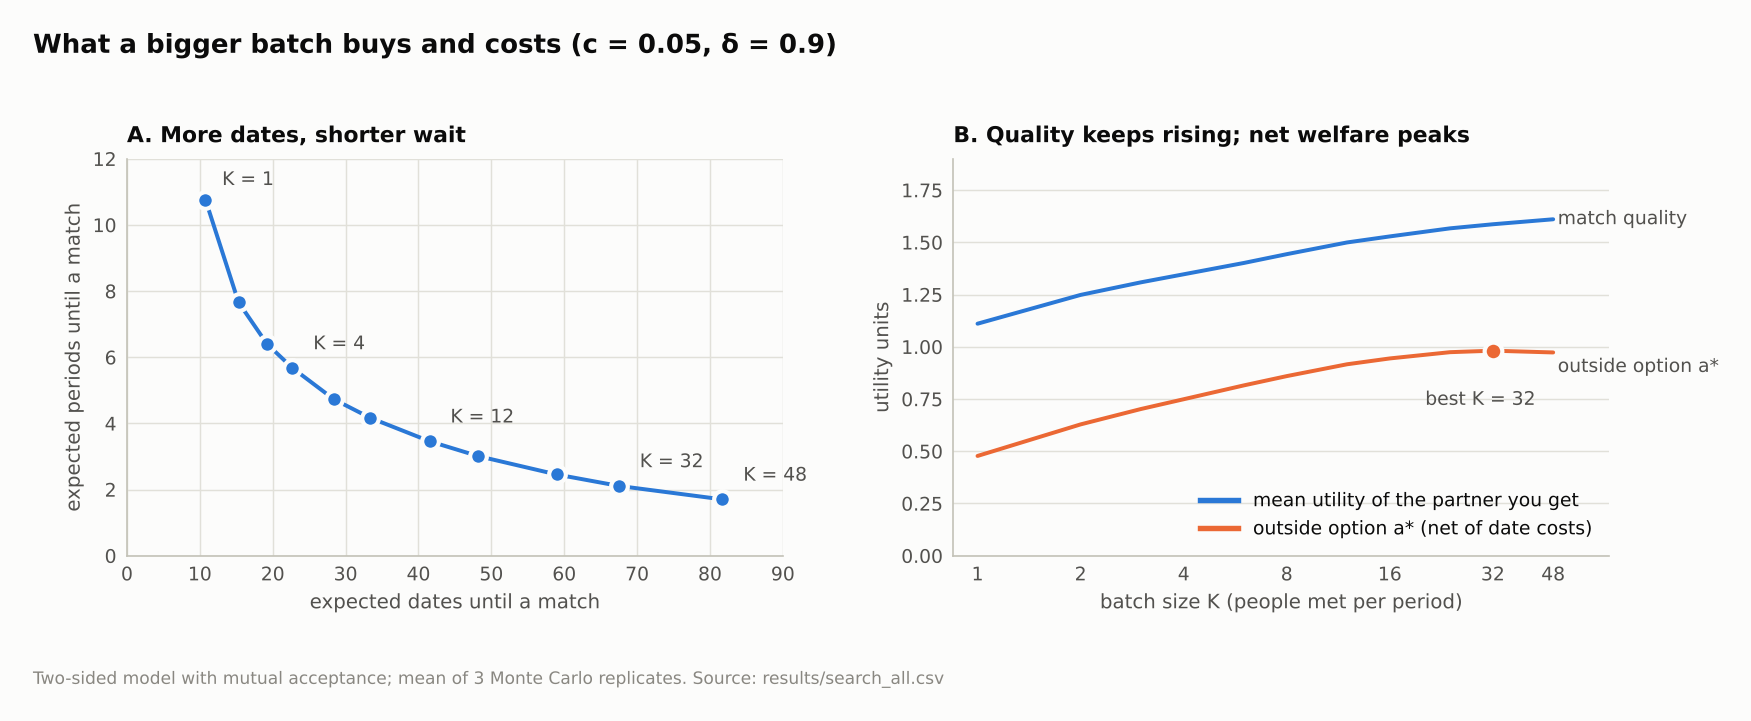
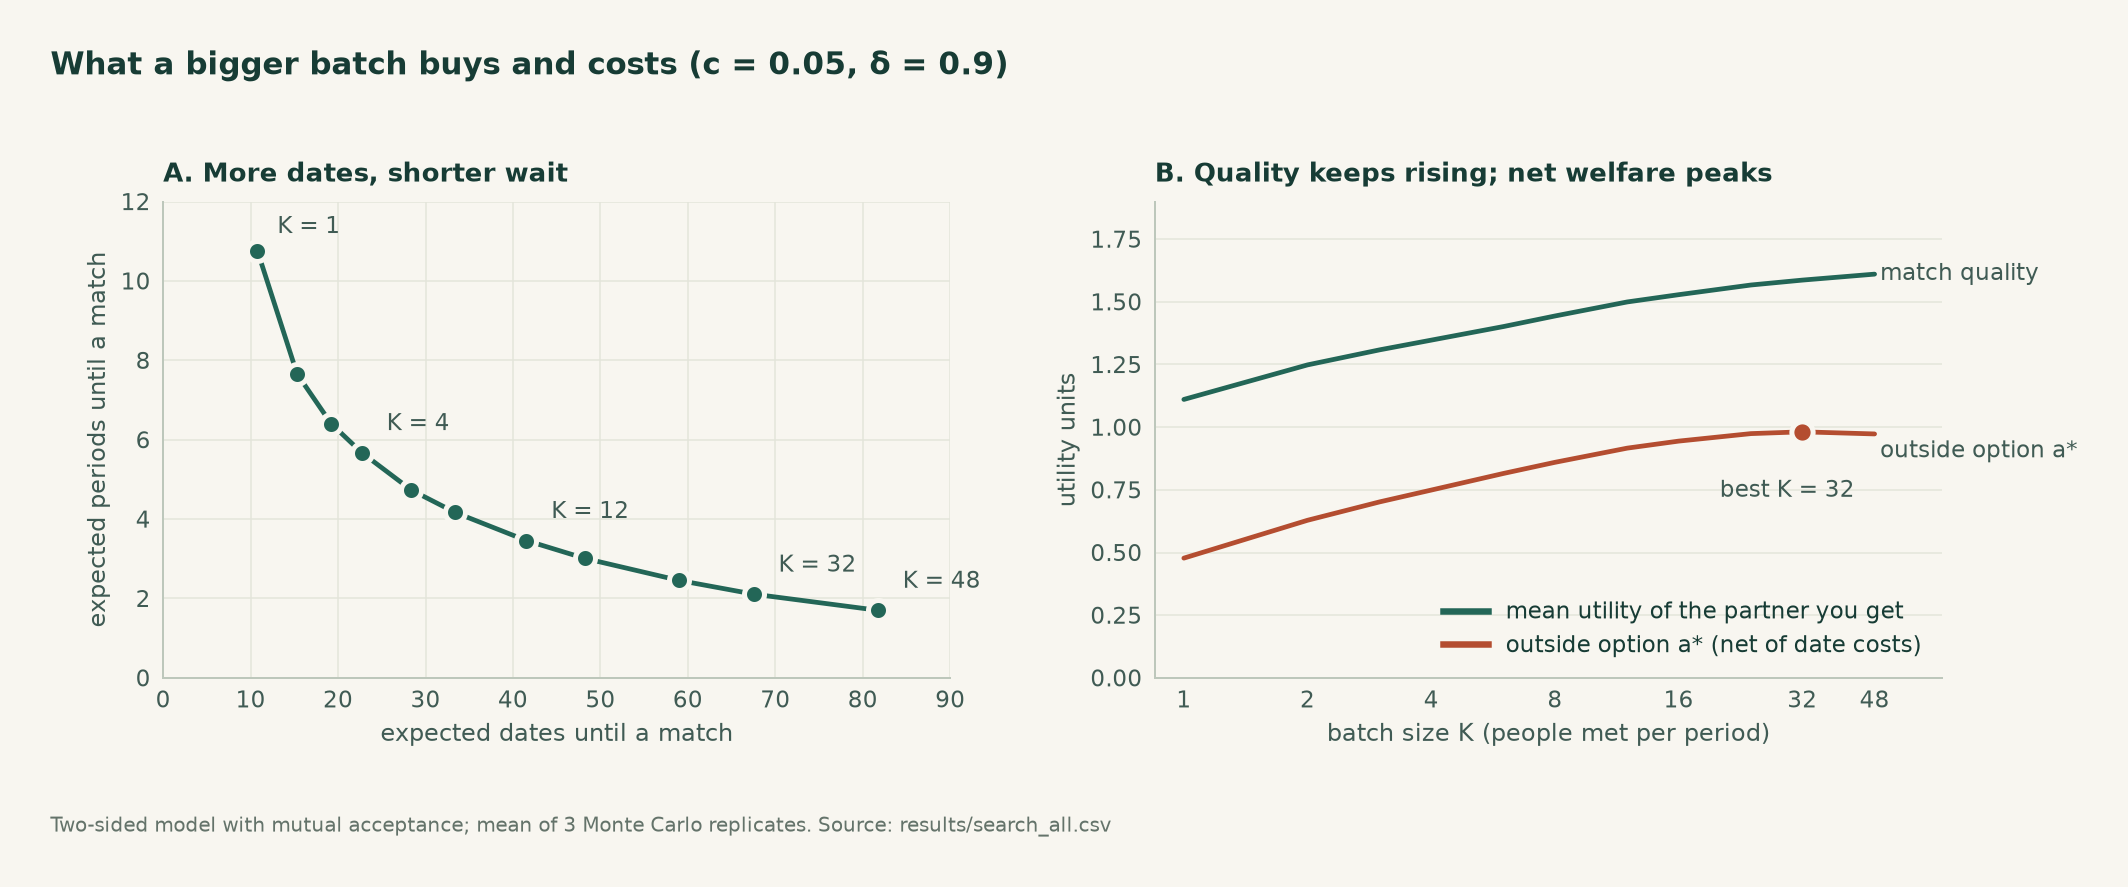
Give the research notebook a cohesive visual identity

diff --git a/experiments/make_identity.py b/experiments/make_identity.py
@@ -1,0 +1,105 @@
+"""Build README cover and performance figure from checked-in evidence.
+
+Run: python experiments/make_identity.py. No simulations are run.
+"""
+import json
+from pathlib import Path
+
+import matplotlib
+matplotlib.use("Agg")
+import matplotlib.pyplot as plt
+from matplotlib.patches import Circle, FancyBboxPatch, PathPatch
+from matplotlib.path import Path as Curve
+
+ROOT = Path(__file__).resolve().parents[1]
+OUT = ROOT / "docs" / "figures"
+PAPER, FOREST, GREEN, ORANGE = "#f8f6f0", "#173c35", "#b9d5aa", "#eaa884"
+plt.rcParams.update({"font.family": "DejaVu Sans", "svg.fonttype": "none"})
+
+
+def text(ax, x, y, s, size=12, color=PAPER, **kw):
+    return ax.text(x, y, s, fontsize=size, color=color, va="top", **kw)
+
+
+def cover():
+    d = json.loads((ROOT / "results/manipulation_n3.json").read_text())
+    fig = plt.figure(figsize=(14, 7.4), facecolor=PAPER)
+    ax = fig.add_axes([0, 0, 1, 1], xlim=(0, 140), ylim=(0, 74))
+    ax.axis("off")
+    ax.add_patch(FancyBboxPatch((0, 25), 140, 49, boxstyle="square,pad=0", fc=FOREST, ec="none"))
+    text(ax, 6, 68, "S / M     RESEARCH NOTEBOOK", 11, GREEN, weight="bold")
+    text(ax, 6, 59, "Stable matching,", 37, weight="bold")
+    text(ax, 6, 51, "under the surface.", 37, weight="bold")
+    text(ax, 6, 40, "Who can gain by lying? How many people should you meet?", 12)
+    text(ax, 6, 36, "Algorithms, incentives and costly search — made inspectable.", 12, "#c2d0c4")
+    text(ax, 6, 29.5, "PYTHON  /  GALE–SHAPLEY  /  REPRODUCIBLE EXPERIMENTS", 9, GREEN)
+    # A schematic bipartite graph, deliberately without empirical meaning.
+    for i in range(4):
+        for j in range(4):
+            ax.plot([101, 129], [61-i*8, 61-j*8], color="#34574a", lw=0.7, zorder=1)
+    for i, j in enumerate([2, 0, 3, 1]):
+        y1, y2 = 61-i*8, 61-j*8
+        path = Curve([(101, y1), (111, y1), (119, y2), (129, y2)],
+                     [Curve.MOVETO, Curve.CURVE4, Curve.CURVE4, Curve.CURVE4])
+        ax.add_patch(PathPatch(path, ec=GREEN if i % 2 == 0 else ORANGE, lw=2.5, fc="none", zorder=2))
+    for side, x in enumerate([101, 129]):
+        for i in range(4):
+            ax.add_patch(Circle((x, 61-i*8), 1.8, fc=FOREST, ec=GREEN if side == 0 else ORANGE, lw=1.8, zorder=3))
+    text(ax, 101, 65, "PROPOSE", 8, GREEN, ha="center")
+    text(ax, 129, 65, "CHOOSE", 8, ORANGE, ha="center")
+    text(ax, 115, 29.5, "MATCHING SCHEMATIC", 8, "#c2d0c4", ha="center")
+    cards = [("01 / INCENTIVES", f"{d['profiles']:,}", "complete profiles, n = 3",
+              "Every single-agent misreport checked."),
+             ("02 / SEARCH", "Meet. Pay. Match.", "an endogenous outside option",
+              "Batch size trades time against date cost."),
+             ("03 / MARKETS", "Three mechanisms.", "one common simulated market",
+              "One-shot DA, repeated cycles, events.")]
+    for i, (label, title, sub, note) in enumerate(cards):
+        x = 6 + i*44
+        if i:
+            ax.plot([x-3, x-3], [6, 21], color="#d7dccf", lw=1)
+        text(ax, x, 21, label, 9, "#536e59", weight="bold")
+        text(ax, x, 16.8, title, 23 if i == 0 else 18, FOREST, weight="bold")
+        text(ax, x, 11.5, sub, 10, FOREST)
+        text(ax, x, 8, note, 8.5, "#536e59")
+    text(ax, 6, 2.8, "A MODEL, NOT A CLAIM ABOUT REAL DATING SERVICES.", 8, "#536e59")
+    OUT.mkdir(parents=True, exist_ok=True)
+    fig.savefig(OUT / "cover.png", dpi=160, facecolor=PAPER)
+    plt.close(fig)
+
+
+def benchmark():
+    data = json.loads((ROOT / "results/benchmark_search.json").read_text(encoding="utf-8-sig"))
+    eq = data["equilibrium"]
+    fig = plt.figure(figsize=(13, 5.6), facecolor=PAPER)
+    fig.text(.055, .91, "COMPUTATION / SAME MODEL, FASTER SEARCH", fontsize=10, color="#536e59", weight="bold")
+    fig.text(.055, .80, "Spend time on the question.", fontsize=28, color=FOREST, weight="bold")
+    fig.text(.055, .735, "Batch deferred acceptance across independent events.", fontsize=12, color="#405b54")
+    fig.text(.055, .51, f"{eq['speedup']:.1f}×", fontsize=68, color=FOREST, weight="bold")
+    fig.text(.06, .40, "faster equilibrium solve", fontsize=14, color=FOREST)
+    fig.text(.06, .335, f"K = {eq['K']} · {eq['events']:,} events · one local run", fontsize=10, color="#536e59")
+    ax = fig.add_axes([.51, .32, .43, .32], facecolor=PAPER)
+    vals = [eq["scalar_seconds"], eq["batch_seconds"]]
+    ax.barh([1, 0], vals, height=.38, color=["#c9d2c2", "#236657"])
+    for y, v in zip([1, 0], vals):
+        ax.text(v+.025, y, f"{v:.3f} s", va="center", fontsize=12, color=FOREST)
+    ax.set_yticks([1, 0], ["Scalar DA", "Batch DA"], fontsize=11, color=FOREST)
+    ax.set_xlim(0, max(vals)*1.28)
+    ax.set_xticks([0, .5, 1.0], ["0", "0.5", "1.0 s"], fontsize=10, color="#536e59")
+    for side in ("top", "right", "left"):
+        ax.spines[side].set_visible(False)
+    ax.spines["bottom"].set_color("#bdc7bb")
+    ax.tick_params(length=0, pad=8)
+    fig.text(.055, .17, "Every partner checked against scalar DA. All equilibrium fields agree within 1e−12 tolerance.",
+             fontsize=11, color=FOREST)
+    fig.text(.055, .105, f"Python {data['python']} · NumPy {data['numpy']} · construction excluded · hardware-dependent timings",
+             fontsize=9, color="#536e59")
+    fig.text(.055, .06, "Source: results/benchmark_search.json  |  Reproduce: python experiments/benchmark_search.py",
+             fontsize=9, color="#536e59")
+    fig.savefig(OUT / "benchmark.png", dpi=160, facecolor=PAPER)
+    plt.close(fig)
+
+
+if __name__ == "__main__":
+    cover()
+    benchmark()

diff --git a/experiments/make_figures.py b/experiments/make_figures.py
@@ -24,17 +24,15 @@ ROOT = Path(__file__).resolve().parents[1]
 RES = ROOT / "results"
 OUT = ROOT / "docs" / "figures"
 
-# Palette: categorical slots 1-3, the blue ordinal ramp and neutral chrome.
-# Every set was run through the dataviz palette validator (light mode,
-# surface #fcfcfb) before use.
-SURFACE, INK, INK2, MUTED = "#fcfcfb", "#0b0b0b", "#52514e", "#898781"
-GRID, AXIS, NEUTRAL_FILL = "#e1e0d9", "#c3c2b7", "#c8c7bf"
-BLUE, ORANGE, AQUA = "#2a78d6", "#eb6834", "#1baf7a"
-ORDINAL = ["#86b6ef", "#3987e5", "#1c5cab", "#0d366b"]  # light -> dark
+# Shared editorial palette: warm paper, forest ink and restrained terracotta.
+SURFACE, INK, INK2, MUTED = "#f8f6f0", "#173c35", "#405b54", "#64736a"
+GRID, AXIS, NEUTRAL_FILL = "#e4e5da", "#bdc7bb", "#d9dfd2"
+BLUE, ORANGE, AQUA = "#236657", "#b44d30", "#897324"
+ORDINAL = ["#849b73", "#548568", "#2c6955", "#153f35"]
 
 plt.rcParams.update({
     "font.family": "sans-serif",
-    "font.sans-serif": ["Arial", "Helvetica", "DejaVu Sans"],
+    "font.sans-serif": ["DejaVu Sans", "Arial", "Helvetica"],
     "font.size": 9.5,
     "axes.edgecolor": AXIS,
     "axes.labelcolor": INK2,
@@ -53,7 +51,7 @@ def style(ax, grid_axis="y"):
     for s in ("left", "bottom"):
         ax.spines[s].set_color(AXIS)
         ax.spines[s].set_linewidth(0.8)
-    ax.grid(True, axis=grid_axis, color=GRID, linewidth=0.7, linestyle="-")
+    ax.grid(True, axis=grid_axis, color=GRID, linewidth=0.6, linestyle="-")
     ax.set_axisbelow(True)
     ax.tick_params(length=0, labelsize=9, labelcolor=INK2, pad=5)
 
@@ -70,7 +68,7 @@ def footnote(fig, text, y=0.012):
 
 def save(fig, name):
     OUT.mkdir(parents=True, exist_ok=True)
-    fig.savefig(OUT / name, dpi=150, bbox_inches="tight", pad_inches=0.22)
+    fig.savefig(OUT / name, dpi=180, bbox_inches="tight", pad_inches=0.28)
     plt.close(fig)
     print("wrote", OUT / name)
 
@@ -113,9 +111,9 @@ def fig_example():
             ax.text(x + 0.95, y, txt, ha="left", va="center", fontsize=9.2, color=INK2)
         ax.text(5.0, -0.25, note, ha="center", va="center", fontsize=9.6, color=INK)
     headline(fig, "A receiver can gain by shortening her list",
-             "Men propose. Each person's true ranking is shown next to the name; the blue line is w0's partner.",
+             "Men propose. Each person's true ranking is shown next to the name; the green line is w0's partner.",
              y=1.03)
-    footnote(fig, "Circles: blue = proposing side (men), orange = receiving side (women). "
+    footnote(fig, "Circles: green = proposing side (men), orange = receiving side (women). "
                   "Unit test: tests/test_gs.py::test_truncation_example_helps_the_receiver", y=-0.03)
     save(fig, "fig1_truncation_example.png")
 
@@ -183,12 +181,13 @@ def fig_search_threshold(S):
     Ks = sorted({k[2] for k in S})
     cs = sorted({k[0] for k in S})
     ds = sorted({k[1] for k in S})
+    line_styles = ["-", "--", "-.", ":"]
     fig, axes = plt.subplots(1, 3, figsize=(11.2, 4.3), sharey=True)
     for ax, delta in zip(axes, ds):
         style(ax)
-        for c, col in zip(cs, ORDINAL):
+        for c, col, ls in zip(cs, ORDINAL, line_styles):
             ax.plot(Ks, [S[(c, delta, K)]["threshold"] for K in Ks], color=col, lw=1.9,
-                    solid_capstyle="round", solid_joinstyle="round")
+                    linestyle=ls, solid_capstyle="round", solid_joinstyle="round")
             kb = max(Ks, key=lambda K: S[(c, delta, K)]["threshold"])
             ax.plot([kb], [S[(c, delta, kb)]["threshold"]], "o", ms=8.5, color=col,
                     mec=SURFACE, mew=2, zorder=5)
@@ -198,7 +197,8 @@ def fig_search_threshold(S):
         ax.set_xlabel("batch size K (people met per period)")
     axes[0].set_ylabel("equilibrium outside option a*\n(net of date costs)")
     axes[0].yaxis.set_major_locator(FixedLocator([-1, -0.5, 0, 0.5, 1, 1.5]))
-    handles = [Line2D([0], [0], color=col, lw=2.6, label=f"c = {c}") for c, col in zip(cs, ORDINAL)]
+    handles = [Line2D([0], [0], color=col, linestyle=ls, lw=2.6, label=f"c = {c}")
+               for c, col, ls in zip(cs, ORDINAL, line_styles)]
     fig.legend(handles=handles, loc="upper left", bbox_to_anchor=(0.045, 0.885), ncol=4, frameon=False,
                fontsize=9.5, title="cost per date (light to dark: low to high)", title_fontsize=9,
                alignment="left", handlelength=1.8, columnspacing=1.8)

diff --git a/README.md b/README.md
@@ -1,4 +1,24 @@
-# stable-matching-lab
+<p align="center">
+  <img src="docs/figures/cover.png" alt="Stable Matching Lab. Algorithms, incentives and costly search. Three research tracks: manipulation, costly search and market simulation." width="100%">
+</p>
+
+<p align="center">
+  <a href="https://github.com/shentonyan/stable-matching-lab/actions/workflows/python-package.yml"><img src="https://img.shields.io/github/actions/workflow/status/shentonyan/stable-matching-lab/python-package.yml?style=flat-square&amp;label=tests&amp;color=236657" alt="Test workflow status"></a>
+  <img src="https://img.shields.io/badge/Python-3.10%2B-236657?style=flat-square" alt="Python 3.10 or newer">
+  <img src="https://img.shields.io/badge/status-research%20model-b44d30?style=flat-square" alt="Research model">
+</p>
+
+<p align="center">
+  <a href="#1-who-can-profit-from-lying">Incentives</a> &nbsp; / &nbsp;
+  <a href="#2-costly-search-with-batch-dating">Costly search</a> &nbsp; / &nbsp;
+  <a href="#layout">Run the experiments</a> &nbsp; / &nbsp;
+  <a href="#faster-equilibrium-search">Performance</a> &nbsp; / &nbsp;
+  <a href="#references">References</a>
+</p>
+
+# Stable Matching Lab
+
+**Stable outcomes. Strategic reports. Costly encounters.**
 
 Small experiments around the Gale–Shapley deferred acceptance (DA) algorithm [1],
 motivated by Singapore's FirstDate government dating pilot, which matches
@@ -18,6 +38,12 @@ Three pieces:
 
 Open questions and planned extensions are listed under [Future work](#future-work).
 Numbers in square brackets refer to the [References](#references).
+
+| Explore | The question | Start here |
+|:--|:--|:--|
+| **01 · Incentives** | Who benefits from changing their reported preferences? | [Manipulation explorer](#1-who-can-profit-from-lying) |
+| **02 · Costly search** | How many people should you meet when every date costs something? | [Equilibrium model](#2-costly-search-with-batch-dating) |
+| **03 · Market design** | What changes when matching happens once, repeatedly, or at events? | [Market simulation](stablematch/market.py) |
 
 ## Layout
 
@@ -43,6 +69,7 @@ python experiments/run_manipulation.py 4 20000 0    # 20,000 random profiles, se
 python experiments/run_search.py 3000 3             # about 15 minutes on 2 cores
 python experiments/run_market.py 200                # 200 random worlds per row
 python experiments/make_figures.py                  # redraws docs/figures from results/
+python experiments/make_identity.py                 # cover + measured performance graphic
 python experiments/benchmark_search.py              # scalar vs batch DA, identical draws
 ```
 
@@ -59,6 +86,15 @@ scalar loop before reporting timings. It excludes simulator construction; its
 three-threshold timings are medians of three runs. Speed depends on batch size,
 market size and hardware, and batching uses additional O(events × K²) working
 memory. Saved research outputs have not been regenerated by this optimization.
+
+## Faster equilibrium search
+
+![Local benchmark: the K=24, 1,000-event equilibrium solve takes 1.175 seconds with scalar DA and 0.209 seconds with batch DA, approximately 5.6 times faster.](docs/figures/benchmark.png)
+
+The figure uses the [saved local benchmark](results/benchmark_search.json),
+not an estimate of every machine's performance. Reproduce the comparison with
+`python experiments/benchmark_search.py`. Batch processing uses additional
+working memory; simulator construction is excluded from the timings.
 
 ## 1. Who can profit from lying?
 
